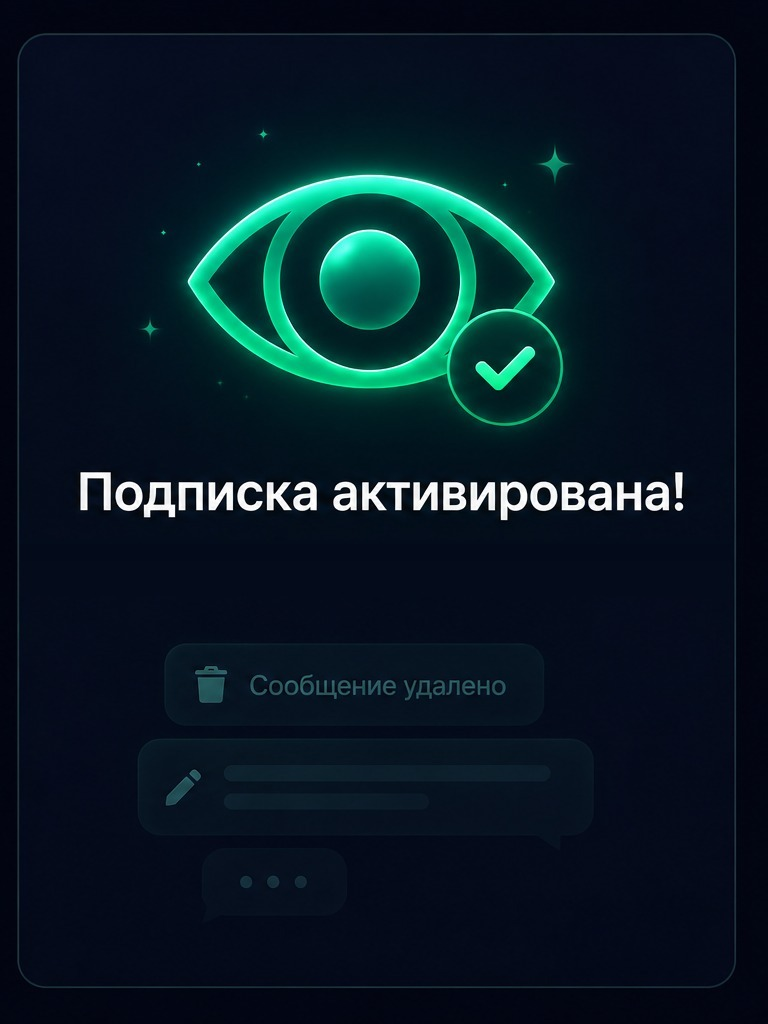
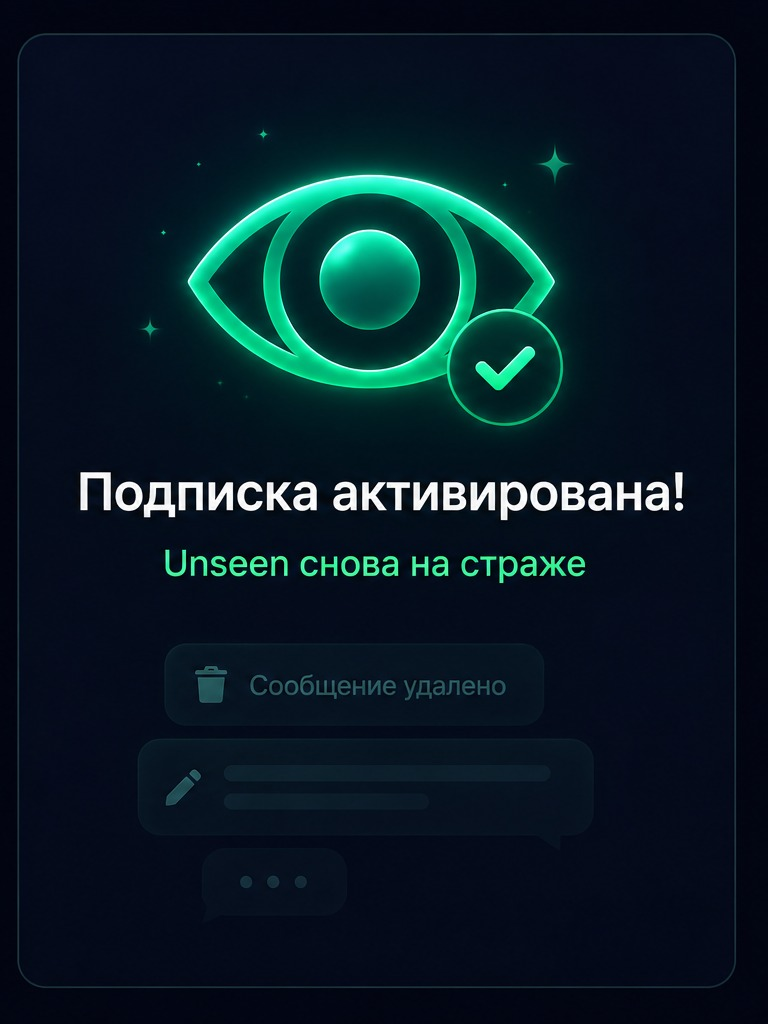
Fully localize Events/Stats/Profile pages (demo data, labels, time units) for EN

Changed region(s): [[0.2188, 0.5312, 0.7812, 0.5625]]

diff --git a/index.html b/index.html
@@ -6,7 +6,7 @@
     <title>Unseen</title>
     <link rel="icon" type="image/png" href="/unseen-miniapp/favicon.png" />
     <script src="https://telegram.org/js/telegram-web-app.js"></script>
-    <script type="module" crossorigin src="/unseen-miniapp/assets/index-CsVN321q.js"></script>
+    <script type="module" crossorigin src="/unseen-miniapp/assets/index-DCMrAaN2.js"></script>
     <link rel="stylesheet" crossorigin href="/unseen-miniapp/assets/index-DbLE739_.css">
   </head>
   <body>